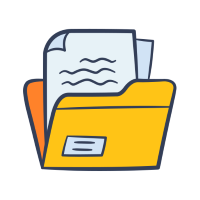
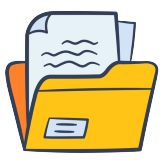
Quartz sync: Jun 19, 2026, 6:05 PM

diff --git a/quartz/styles/_ui.scss b/quartz/styles/_ui.scss
@@ -94,16 +94,16 @@ div.flex-component:has(.page-title) > div {
         display: inline-block;
         width: 1.8em;
         height: 1.8em;
-        margin-left: 0.3rem;
+        margin-left: 0.4rem;
         vertical-align: middle;
         background-image: url("/static/avatar.webp");
         background-size: cover;
         background-repeat: no-repeat;
-        background-color: var(--secondary);
+        background-color: #e37b3e52;
         border-radius: 5px;
     }
     &:hover::before {
-        background-color: var(--tertiary);
+        filter: brightness(110%);
     }
     }
 }

diff --git a/quartz/styles/custom.scss b/quartz/styles/custom.scss
@@ -353,16 +353,16 @@ body:is(
 
 // minimal scroll-------------------
 
-/* Firefox */
-// * {
-//     scrollbar-width: thin;
-//     scrollbar-color: var(--gray) transparent;
-// }
+// Firefox
+* {
+    scrollbar-width: thin;
+    scrollbar-color: var(--gray) transparent;
+}
   
-/* Chromium + Safari */
+// Chromium + Safari
 ::-webkit-scrollbar {
-width: 6px;
-height: 6px;
+width: 8px;
+height: 8px;
 }
 
 ::-webkit-scrollbar-track {

diff --git a/content/index.md b/content/index.md
@@ -69,7 +69,7 @@ draft: false
 
 | icon | count         | sum         |
 | ---- | ------------- | ----------- |
-| ⌛    | 60 فیلم کوتاه | `10.2 ساعت` |
+| ⌛    | 60 فیلم کوتاه | `10.1 ساعت` |
 <!-- SerializedQuery END -->
 
 <!-- QueryToSerialize: TABLE WITHOUT ID "🎥" as icon, length(rows) + " مستند" as count, "`" + round(sum(rows.length.hours),1) + " ساعت`" as sum FROM #Movie WHERE type = "documentary" AND length !=null GROUP BY "" -->
@@ -85,9 +85,5 @@ draft: false
 
 ---
 
-
-**فهرست کامل:** [[data.base]]
-
-
-**به تفکیک سال:**
-- [[1404-data.base]]
+- [[data.base|همه]]
+- [[1404-data.base|1404]]
